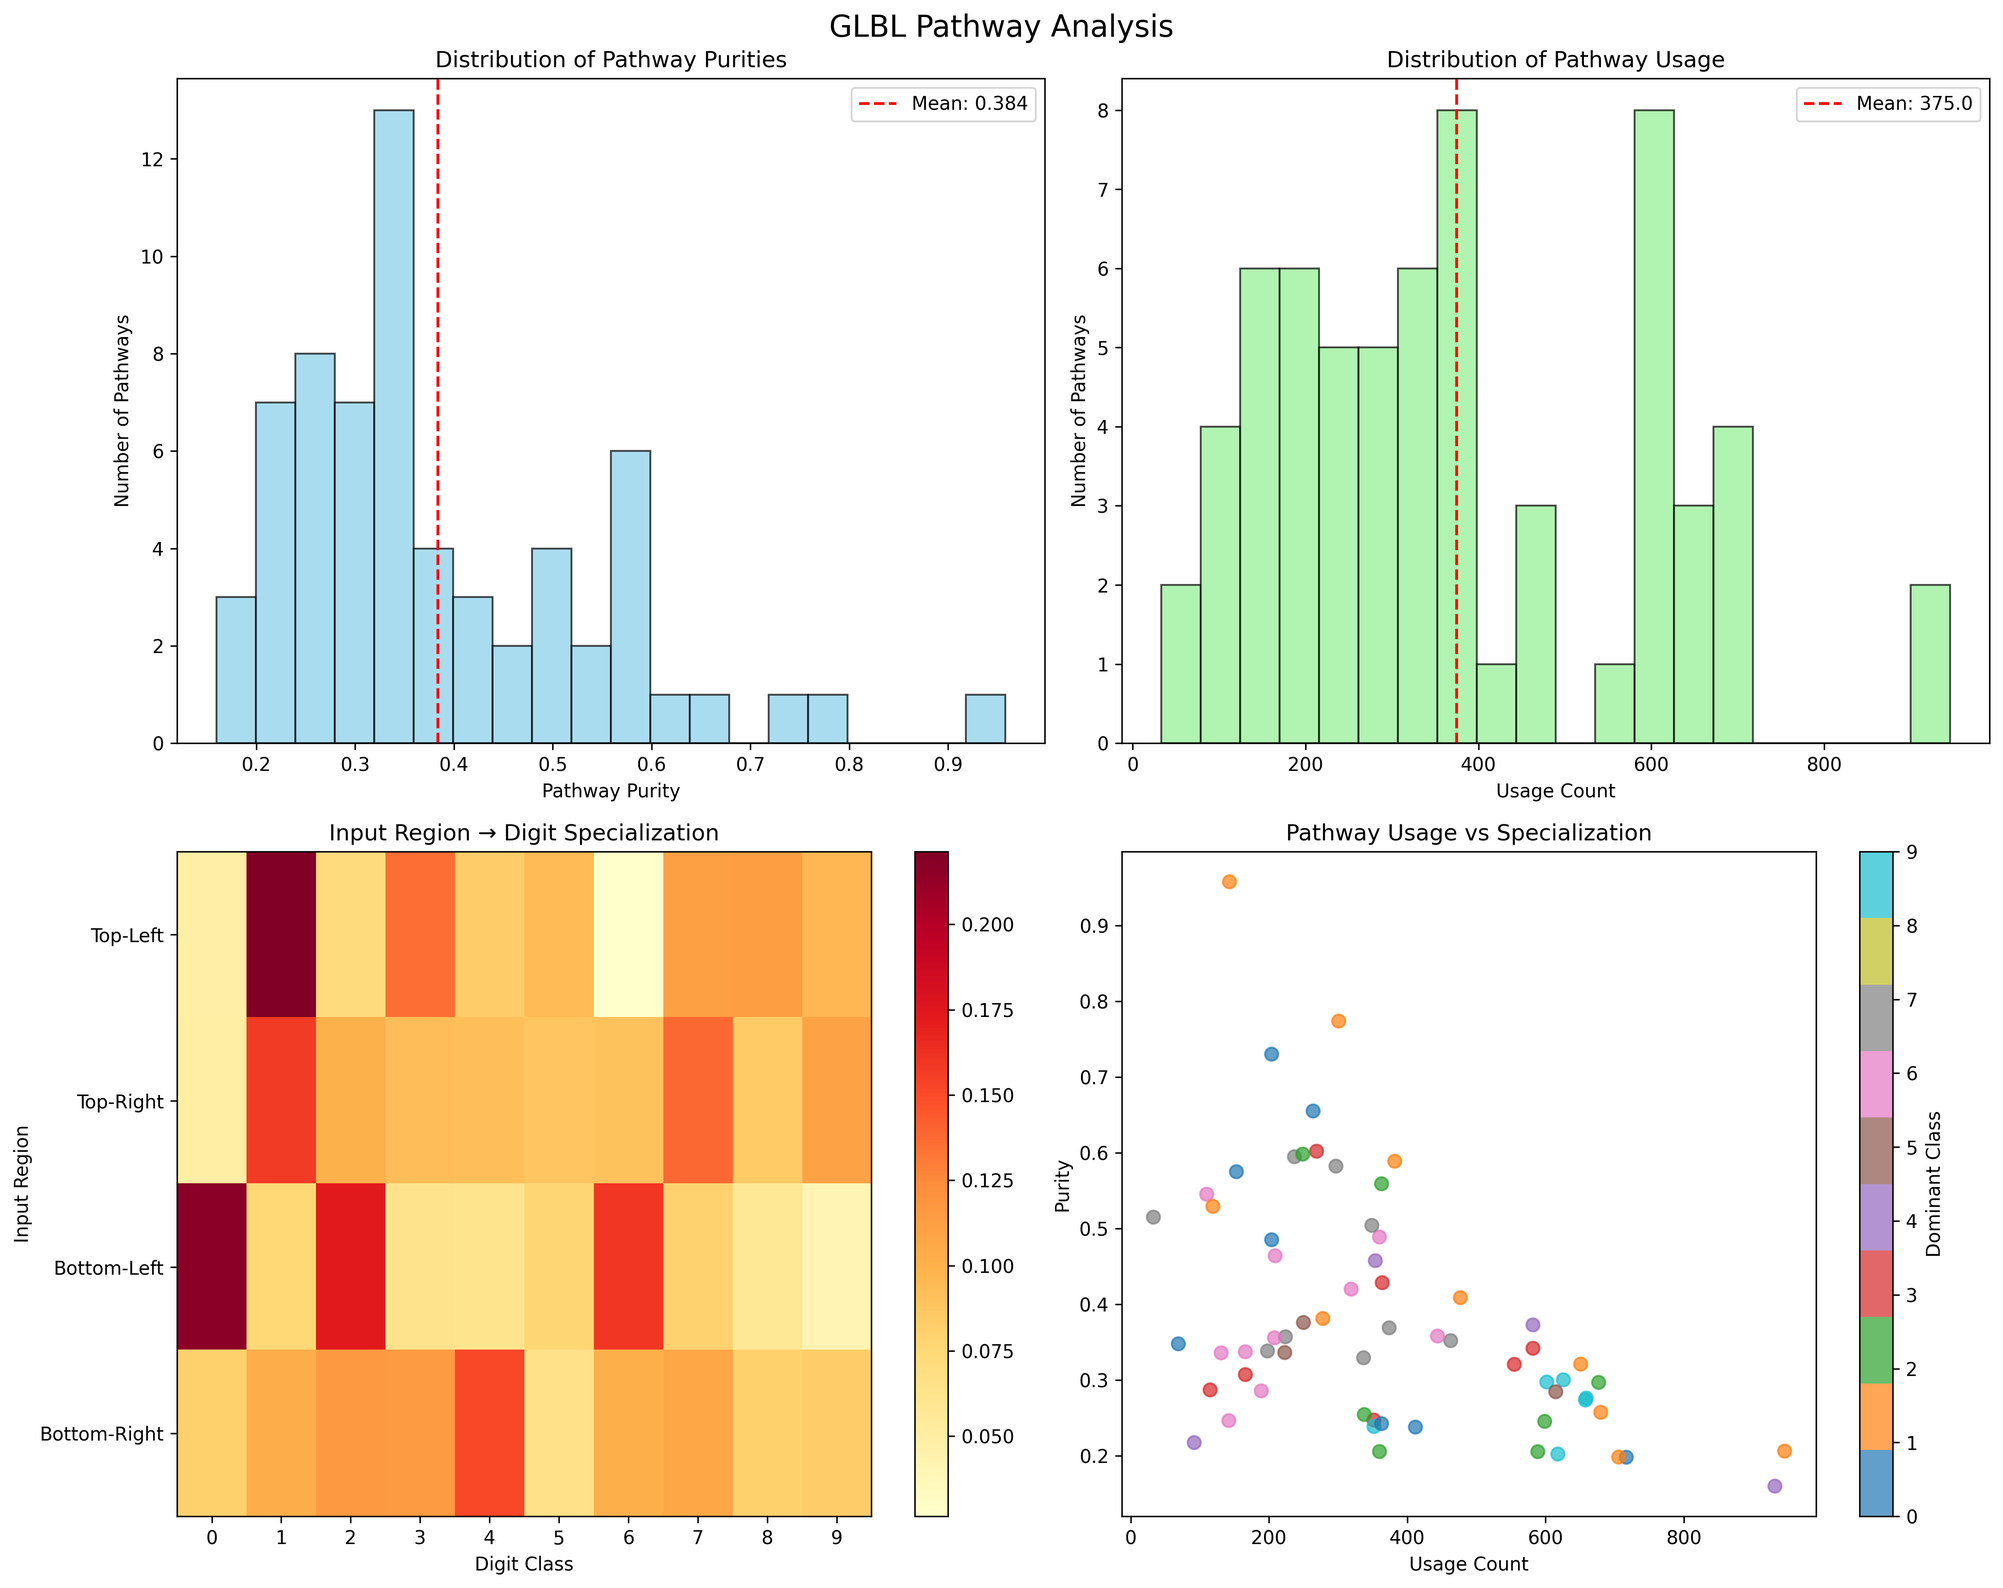
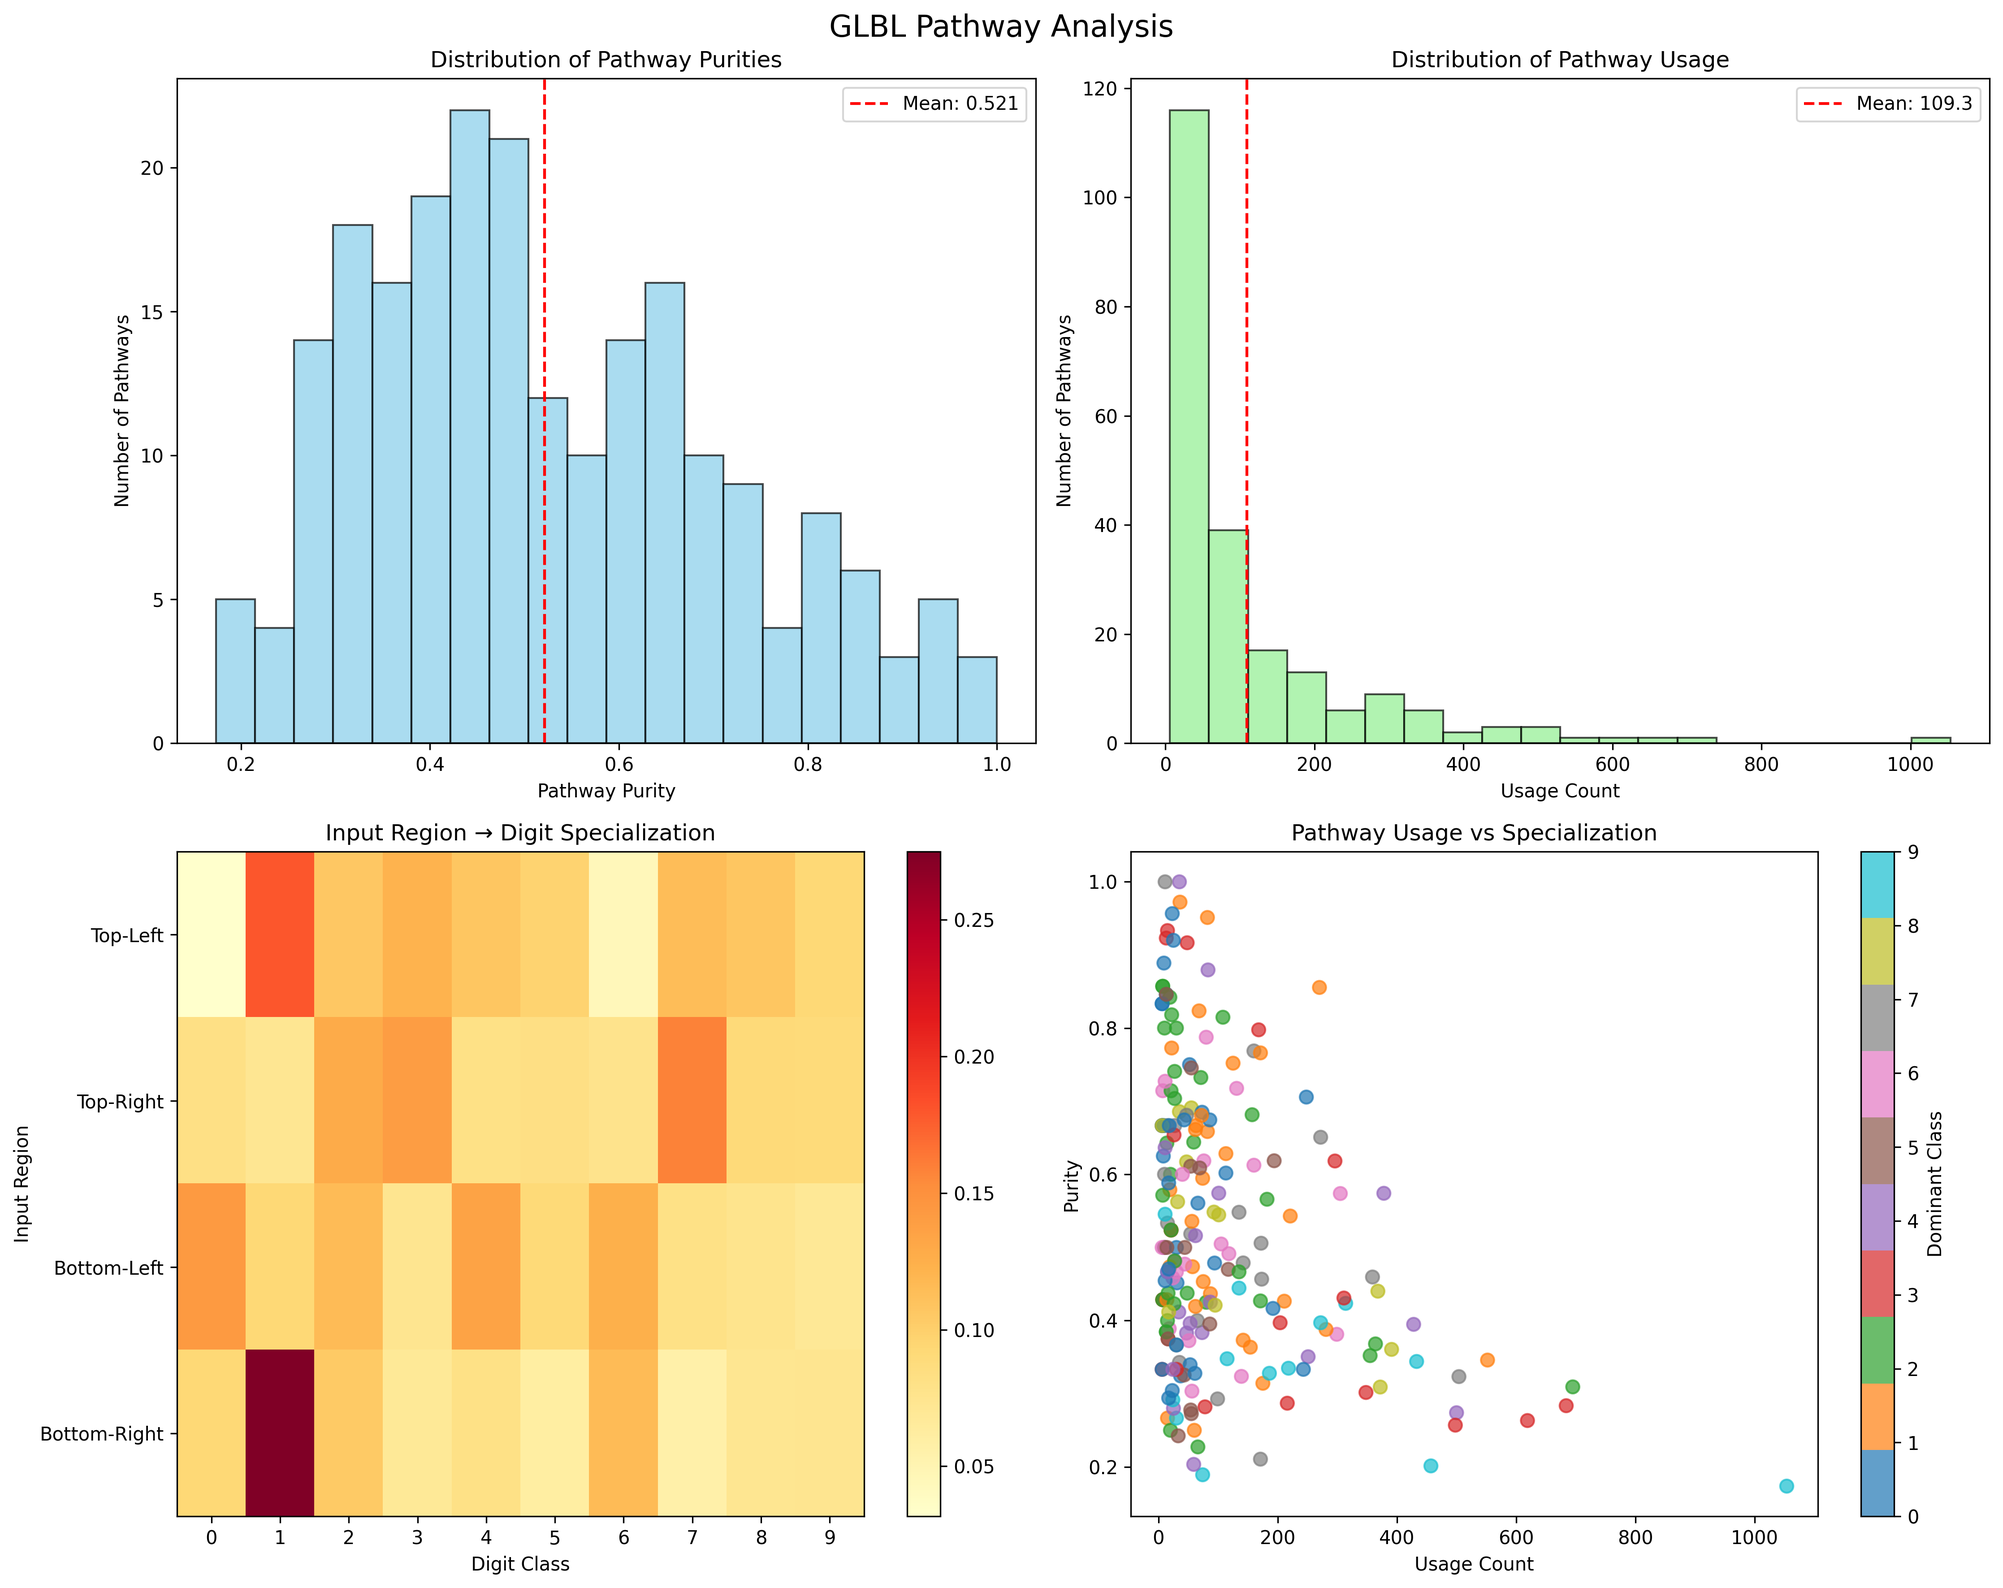
Enhance MLP with two hidden layers, GELU activation, and pathway updates

diff --git a/mlp-routing.py b/mlp-routing.py
@@ -14,18 +14,21 @@ device = torch.device('cuda' if torch.cuda.is_available() else 'cpu')
 print(f"🚀 Using device: {device}")
 
 class StandardMLP(nn.Module):
-    """Baseline MLP for comparison"""
-    def __init__(self, input_size=784, hidden_size=512, num_classes=10, dropout=0.2):
+    """Baseline MLP for comparison with two hidden layers and GELU activation"""
+    def __init__(self, input_size=784, hidden_size1=512, hidden_size2=256, num_classes=10, dropout=0.2):
         super().__init__()
-        self.fc1 = nn.Linear(input_size, hidden_size)
-        self.fc2 = nn.Linear(hidden_size, num_classes)
+        self.fc1 = nn.Linear(input_size, hidden_size1)
+        self.fc2 = nn.Linear(hidden_size1, hidden_size2)
+        self.fc3 = nn.Linear(hidden_size2, num_classes)
         self.dropout = nn.Dropout(dropout)
 
     def forward(self, x):
         x = x.view(x.size(0), -1)
-        x = F.relu(self.fc1(x))
+        x = F.gelu(self.fc1(x))
         x = self.dropout(x)
-        x = self.fc2(x)
+        x = F.gelu(self.fc2(x))
+        x = self.dropout(x)
+        x = self.fc3(x)
         return x
 
 class GLBLPathwayMLP(nn.Module):
@@ -43,41 +46,48 @@ class GLBLPathwayMLP(nn.Module):
         
         # Default configuration
         default_config = {
-            'num_input_regions': 4,      # Spatial image regions
-            'num_hidden_groups': 4,      # Hidden neuron groups  
-            'num_output_groups': 4,      # Output class groups
-            'momentum': 0.9,             # For global statistics
-            'router_hidden_size': 256,   # Pathway router capacity
-            'router_dropout': 0.1        # Pathway router dropout
+            'num_input_regions': 4,        # Spatial image regions
+            'num_hidden1_groups': 4,       # First hidden layer neuron groups  
+            'num_hidden2_groups': 4,       # Second hidden layer neuron groups
+            'num_output_groups': 4,        # Output class groups
+            'momentum': 0.9,               # For global statistics
+            'router_hidden_size': 256,     # Pathway router capacity
+            'router_dropout': 0.1          # Pathway router dropout
         }
         self.config = {**default_config, **(config or {})}
         
         # Network dimensions
         self.input_dim = pretrained_mlp.fc1.in_features
-        self.hidden_dim = pretrained_mlp.fc1.out_features
-        self.output_dim = pretrained_mlp.fc2.out_features
+        self.hidden1_dim = pretrained_mlp.fc1.out_features
+        self.hidden2_dim = pretrained_mlp.fc2.out_features
+        self.output_dim = pretrained_mlp.fc3.out_features
         
         # Pathway configuration
         self.num_input_regions = self.config['num_input_regions']
-        self.num_hidden_groups = self.config['num_hidden_groups']
+        self.num_hidden1_groups = self.config['num_hidden1_groups']
+        self.num_hidden2_groups = self.config['num_hidden2_groups']
         self.num_output_groups = self.config['num_output_groups']
         self.num_pathways = (self.num_input_regions * 
-                           self.num_hidden_groups * 
+                           self.num_hidden1_groups * 
+                           self.num_hidden2_groups *
                            self.num_output_groups)
         
         print(f"🧠 GLBL Pathway MLP Configuration:")
-        print(f"   Input: {self.input_dim} → Hidden: {self.hidden_dim} → Output: {self.output_dim}")
-        print(f"   Pathways: {self.num_input_regions}×{self.num_hidden_groups}×{self.num_output_groups} = {self.num_pathways}")
+        print(f"   Input: {self.input_dim} → Hidden1: {self.hidden1_dim} → Hidden2: {self.hidden2_dim} → Output: {self.output_dim}")
+        print(f"   Pathways: {self.num_input_regions}×{self.num_hidden1_groups}×{self.num_hidden2_groups}×{self.num_output_groups} = {self.num_pathways}")
         
         # Copy pretrained weights
-        self.fc1 = nn.Linear(self.input_dim, self.hidden_dim)
-        self.fc2 = nn.Linear(self.hidden_dim, self.output_dim)
+        self.fc1 = nn.Linear(self.input_dim, self.hidden1_dim)
+        self.fc2 = nn.Linear(self.hidden1_dim, self.hidden2_dim)
+        self.fc3 = nn.Linear(self.hidden2_dim, self.output_dim)
         
         with torch.no_grad():
             self.fc1.weight.copy_(pretrained_mlp.fc1.weight)
             self.fc1.bias.copy_(pretrained_mlp.fc1.bias)
             self.fc2.weight.copy_(pretrained_mlp.fc2.weight)
             self.fc2.bias.copy_(pretrained_mlp.fc2.bias)
+            self.fc3.weight.copy_(pretrained_mlp.fc3.weight)
+            self.fc3.bias.copy_(pretrained_mlp.fc3.bias)
         
         # Create pathway decomposition
         self._create_pathway_structure()
@@ -108,9 +118,13 @@ class GLBLPathwayMLP(nn.Module):
         input_groups = self._create_spatial_regions(28, 28, self.num_input_regions)
         self.register_buffer('input_groups_indices', input_groups)
         
-        # Hidden neuron groups
-        hidden_groups = self._create_neuron_groups(self.hidden_dim, self.num_hidden_groups)
-        self.register_buffer('hidden_groups_indices', hidden_groups)
+        # First hidden layer neuron groups
+        hidden1_groups = self._create_neuron_groups(self.hidden1_dim, self.num_hidden1_groups)
+        self.register_buffer('hidden1_groups_indices', hidden1_groups)
+        
+        # Second hidden layer neuron groups
+        hidden2_groups = self._create_neuron_groups(self.hidden2_dim, self.num_hidden2_groups)
+        self.register_buffer('hidden2_groups_indices', hidden2_groups)
         
         # Output class groups
         output_groups = self._create_neuron_groups(self.output_dim, self.num_output_groups)
@@ -118,7 +132,8 @@ class GLBLPathwayMLP(nn.Module):
         
         print(f"✅ Created pathway structure:")
         print(f"   Input regions: {input_groups.shape}")
-        print(f"   Hidden groups: {hidden_groups.shape}")
+        print(f"   Hidden1 groups: {hidden1_groups.shape}")
+        print(f"   Hidden2 groups: {hidden2_groups.shape}")
         print(f"   Output groups: {output_groups.shape}")
     
     def _create_spatial_regions(self, height, width, num_regions):
@@ -251,46 +266,53 @@ class GLBLPathwayMLP(nn.Module):
         
         pathway_idx = 0
         for i in range(self.num_input_regions):
-            for j in range(self.num_hidden_groups):
-                for k in range(self.num_output_groups):
-                    
-                    # Get pathway activation weights
-                    weights = pathway_weights[:, pathway_idx].unsqueeze(1)
-                    
-                    # Skip computation if pathway not used
-                    if weights.sum() < 1e-6:
+            for j in range(self.num_hidden1_groups):
+                for k in range(self.num_hidden2_groups):
+                    for l in range(self.num_output_groups):
+                        
+                        # Get pathway activation weights
+                        weights = pathway_weights[:, pathway_idx].unsqueeze(1)
+                        
+                        # Skip computation if pathway not used
+                        if weights.sum() < 1e-6:
+                            pathway_idx += 1
+                            continue
+                        
+                        # Get pathway indices
+                        input_indices = self.input_groups_indices[i]
+                        hidden1_indices = self.hidden1_groups_indices[j]
+                        hidden2_indices = self.hidden2_groups_indices[k]
+                        output_indices = self.output_groups_indices[l]
+                        
+                        # Extract pathway-specific weights and inputs
+                        input_subset = x_flat[:, input_indices]
+                        
+                        # Layer 1: input → hidden1
+                        W1_subset = self.fc1.weight[hidden1_indices][:, input_indices]
+                        b1_subset = self.fc1.bias[hidden1_indices]
+                        hidden1_output = F.gelu(F.linear(input_subset, W1_subset, b1_subset))
+                        
+                        # Layer 2: hidden1 → hidden2
+                        W2_subset = self.fc2.weight[hidden2_indices][:, hidden1_indices]
+                        b2_subset = self.fc2.bias[hidden2_indices]
+                        hidden2_output = F.gelu(F.linear(hidden1_output, W2_subset, b2_subset))
+                        
+                        # Layer 3: hidden2 → output
+                        W3_subset = self.fc3.weight[output_indices][:, hidden2_indices]
+                        b3_subset = self.fc3.bias[output_indices]
+                        pathway_output = F.linear(hidden2_output, W3_subset, b3_subset)
+                        
+                        # Accumulate weighted pathway output
+                        output[:, output_indices] += pathway_output * weights
+                        
+                        # Record activations for analysis
+                        if record_activations and true_labels is not None:
+                            self._record_pathway_activations(
+                                pathway_idx, i, j, k, l, weights, hidden1_output, hidden2_output,
+                                pathway_output, true_labels, batch_size
+                            )
+                        
                         pathway_idx += 1
-                        continue
-                    
-                    # Get pathway indices
-                    input_indices = self.input_groups_indices[i]
-                    hidden_indices = self.hidden_groups_indices[j]
-                    output_indices = self.output_groups_indices[k]
-                    
-                    # Extract pathway-specific weights and inputs
-                    input_subset = x_flat[:, input_indices]
-                    
-                    # Layer 1: input → hidden
-                    W1_subset = self.fc1.weight[hidden_indices][:, input_indices]
-                    b1_subset = self.fc1.bias[hidden_indices]
-                    hidden_output = F.relu(F.linear(input_subset, W1_subset, b1_subset))
-                    
-                    # Layer 2: hidden → output
-                    W2_subset = self.fc2.weight[output_indices][:, hidden_indices]
-                    b2_subset = self.fc2.bias[output_indices]
-                    pathway_output = F.linear(hidden_output, W2_subset, b2_subset)
-                    
-                    # Accumulate weighted pathway output
-                    output[:, output_indices] += pathway_output * weights
-                    
-                    # Record activations for analysis
-                    if record_activations and true_labels is not None:
-                        self._record_pathway_activations(
-                            pathway_idx, i, j, k, weights, hidden_output, 
-                            pathway_output, true_labels, batch_size
-                        )
-                    
-                    pathway_idx += 1
         
         # Update statistics
         if self.training:
@@ -304,10 +326,10 @@ class GLBLPathwayMLP(nn.Module):
         
         return output
     
-    def _record_pathway_activations(self, pathway_idx, i, j, k, weights, 
-                                  hidden_output, pathway_output, true_labels, batch_size):
+    def _record_pathway_activations(self, pathway_idx, i, j, k, l, weights, 
+                                  hidden1_output, hidden2_output, pathway_output, true_labels, batch_size):
         """Record pathway activations for analysis"""
-        pathway_name = f"Input{i}_Hidden{j}_Output{k}"
+        pathway_name = f"Input{i}_Hidden1{j}_Hidden2{k}_Output{l}"
         
         for sample_idx in range(batch_size):
             if weights[sample_idx] > 1e-3:  # Only record active pathways
@@ -315,7 +337,8 @@ class GLBLPathwayMLP(nn.Module):
                     'pathway_idx': pathway_idx,
                     'true_class': true_labels[sample_idx].item(),
                     'pathway_weight': weights[sample_idx].item(),
-                    'hidden_activation': hidden_output[sample_idx].mean().item(),
+                    'hidden1_activation': hidden1_output[sample_idx].mean().item(),
+                    'hidden2_activation': hidden2_output[sample_idx].mean().item(),
                     'output_activation': pathway_output[sample_idx].max().item()
                 })
     
@@ -504,28 +527,53 @@ def measure_neuron_selectivity(model, test_loader, model_name="Standard"):
     print(f"\n🔬 Measuring {model_name} Neuron Selectivity...")
     
     model.eval()
-    hidden_by_class = [[] for _ in range(10)]
+    hidden1_by_class = [[] for _ in range(10)]
+    hidden2_by_class = [[] for _ in range(10)]
     
     with torch.no_grad():
         for data, target in test_loader:
             data, target = data.to(device), target.to(device)
             x_flat = data.view(data.size(0), -1)
-            hidden = F.relu(model.fc1(x_flat))
+            hidden1 = F.gelu(model.fc1(x_flat))
+            hidden2 = F.gelu(model.fc2(hidden1))
             
-            hidden_cpu = hidden.cpu().numpy()
+            hidden1_cpu = hidden1.cpu().numpy()
+            hidden2_cpu = hidden2.cpu().numpy()
             target_cpu = target.cpu().numpy()
             
             for i in range(len(target_cpu)):
                 class_label = target_cpu[i]
-                hidden_by_class[class_label].append(hidden_cpu[i])
+                hidden1_by_class[class_label].append(hidden1_cpu[i])
+                hidden2_by_class[class_label].append(hidden2_cpu[i])
     
-    # Calculate selectivity scores
+    # Calculate selectivity scores for both hidden layers
     neuron_scores = []
+    
+    # Hidden layer 1
     for neuron_idx in range(model.fc1.out_features):
         class_means = []
         for class_idx in range(10):
-            if hidden_by_class[class_idx]:
-                activations = [h[neuron_idx] for h in hidden_by_class[class_idx]]
+            if hidden1_by_class[class_idx]:
+                activations = [h[neuron_idx] for h in hidden1_by_class[class_idx]]
+                class_means.append(np.mean(activations))
+            else:
+                class_means.append(0.0)
+        
+        class_means = np.array(class_means)
+        probs = class_means + 1e-8
+        probs = probs / probs.sum()
+        
+        neuron_entropy = entropy(probs)
+        max_entropy = entropy(np.ones(10) / 10)
+        selectivity = 1 - (neuron_entropy / max_entropy)
+        neuron_scores.append(selectivity)
+    
+    # Hidden layer 2
+    for neuron_idx in range(model.fc2.out_features):
+        class_means = []
+        for class_idx in range(10):
+            if hidden2_by_class[class_idx]:
+                activations = [h[neuron_idx] for h in hidden2_by_class[class_idx]]
                 class_means.append(np.mean(activations))
             else:
                 class_means.append(0.0)
@@ -655,6 +703,7 @@ def create_visualization(pathway_specializations, model_name="GLBL"):
     
     for pathway_name, stats in pathway_specializations.items():
         if 'Input' in pathway_name:
+            # Handle new format: Input0_Hidden10_Hidden21_Output2
             region_idx = int(pathway_name.split('_')[0].replace('Input', ''))
             for class_idx, count in stats['class_distribution'].items():
                 region_class_matrix[region_idx, class_idx] += count * stats['purity']
